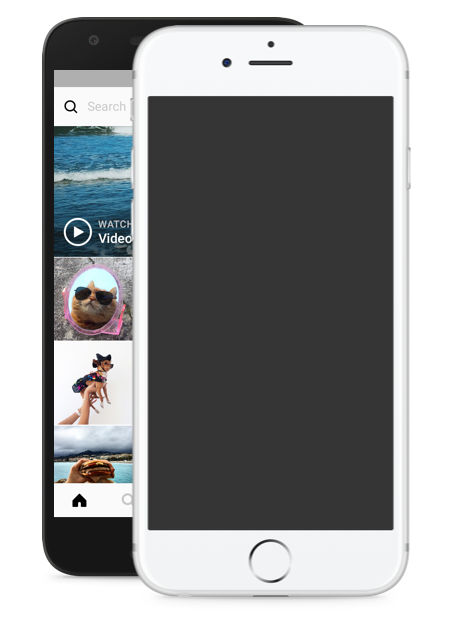
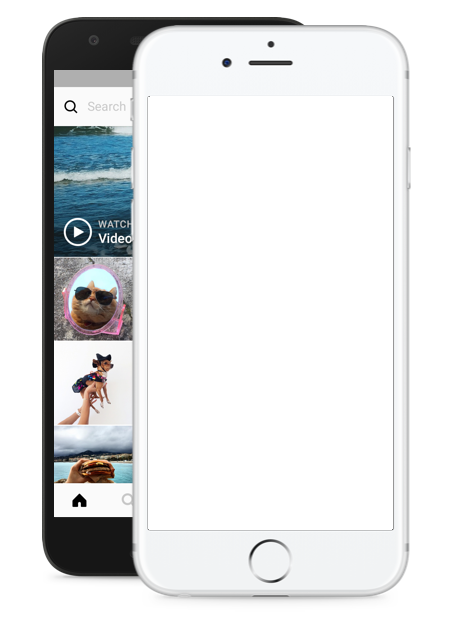
inserido slide

diff --git a/index.html b/index.html
@@ -5,13 +5,39 @@
     <meta name="viewport" content="width=device-width, initial-scale=1.0">
     <title>Instagram</title>
     <link rel="stylesheet" href="estilos/style.css">
+    <script type="text/javascript">
+        function slide1() {
+            document.getElementById('foto').src="imagens/celular-1.jpg";
+            setTimeout("slide2()",3000)
+        }
+        function slide2() {
+            document.getElementById('foto').src="imagens/celular-2.jpg";
+            setTimeout("slide3()",3000)
+        }
+    
+        function slide3() {
+            document.getElementById('foto').src="imagens/celular-3.jpg";
+            setTimeout("slide4()",3000)
+        }
+        function slide4() {
+            document.getElementById('foto').src="imagens/celular-4.jpg";
+            setTimeout("slide5()",3000)
+        }
+        function slide5() {
+            document.getElementById('foto').src="imagens/celular-5.jpg";
+            setTimeout("slide1()",3000)
+        }
+    
+    </script>
 </head>
-<body>
+<body onLoad="slide1()">
     <div class="instagram-wrapper">
         <div class="instagram-fone">
-            <img src="imagens/celular-instagram.png" alt"celular">
+            <img id="foto">
+            <img src="imagens/celular-instagram.png"   alt="celular">
+            
         </div>
-        <div class="instagram-continue">
+           <div class="instagram-continue">
             <div class="grupo">
                 <img src="imagens/logo.png" class="logo-insta" alt="logo insta">
                 <div class="profile-foto">
@@ -21,15 +47,15 @@
                 <a href="*" class="instagram-logout">Remover conta</a>
             </div>
             <div class="grupo">
-                <p class="not-account">Não é Antonio?</p>
+                <p class="not-account"><strong>Não é Antonio?</strong></p>
                 <p class="not-account">
                     <span class="link-blue">Alternar contas</span>
-                    ou 
+                    <strong>ou</strong> 
                     <span class="link-blue">Inscreva-se</span>
                 </p>
             </div>
             <div class="get-the-app">
-                <p clas="get-app">Baixe o aplicativo</p>
+                <p clas="get-app"><strong>Obtenha o aplicativo</strong> </p>
                 <div class="download">
                     <a href="#" class="app-download"></a>
                     <a href="#" class="app-download"></a>

diff --git a/estilos/style.css b/estilos/style.css
@@ -15,6 +15,16 @@ body{
     display: flex;
     justify-content: center;
 }
+img#foto{
+    position:relative;
+    left:259px;
+    top:4px;
+    width:245px;
+    height:432px;
+    border: 3px solid rgba(0,0,0.4);
+
+
+}
 .instagram-wrapper{
     display:flex;
     align-items: center;
@@ -36,7 +46,7 @@ body{
     -ms-flex-preferred-size: 454px;
     flex-basis: 454px;
     height: 618px;
-    margin-left: -35px;
+    margin-left: -120px;
     margin-right: -15px;
     
 }
@@ -55,7 +65,6 @@ body{
     flex-direction: column;
     background-color: #ffffff;
     width: 100%;
-
     padding: 10px 0px;
     border: 3px solid lightgray;
 }
